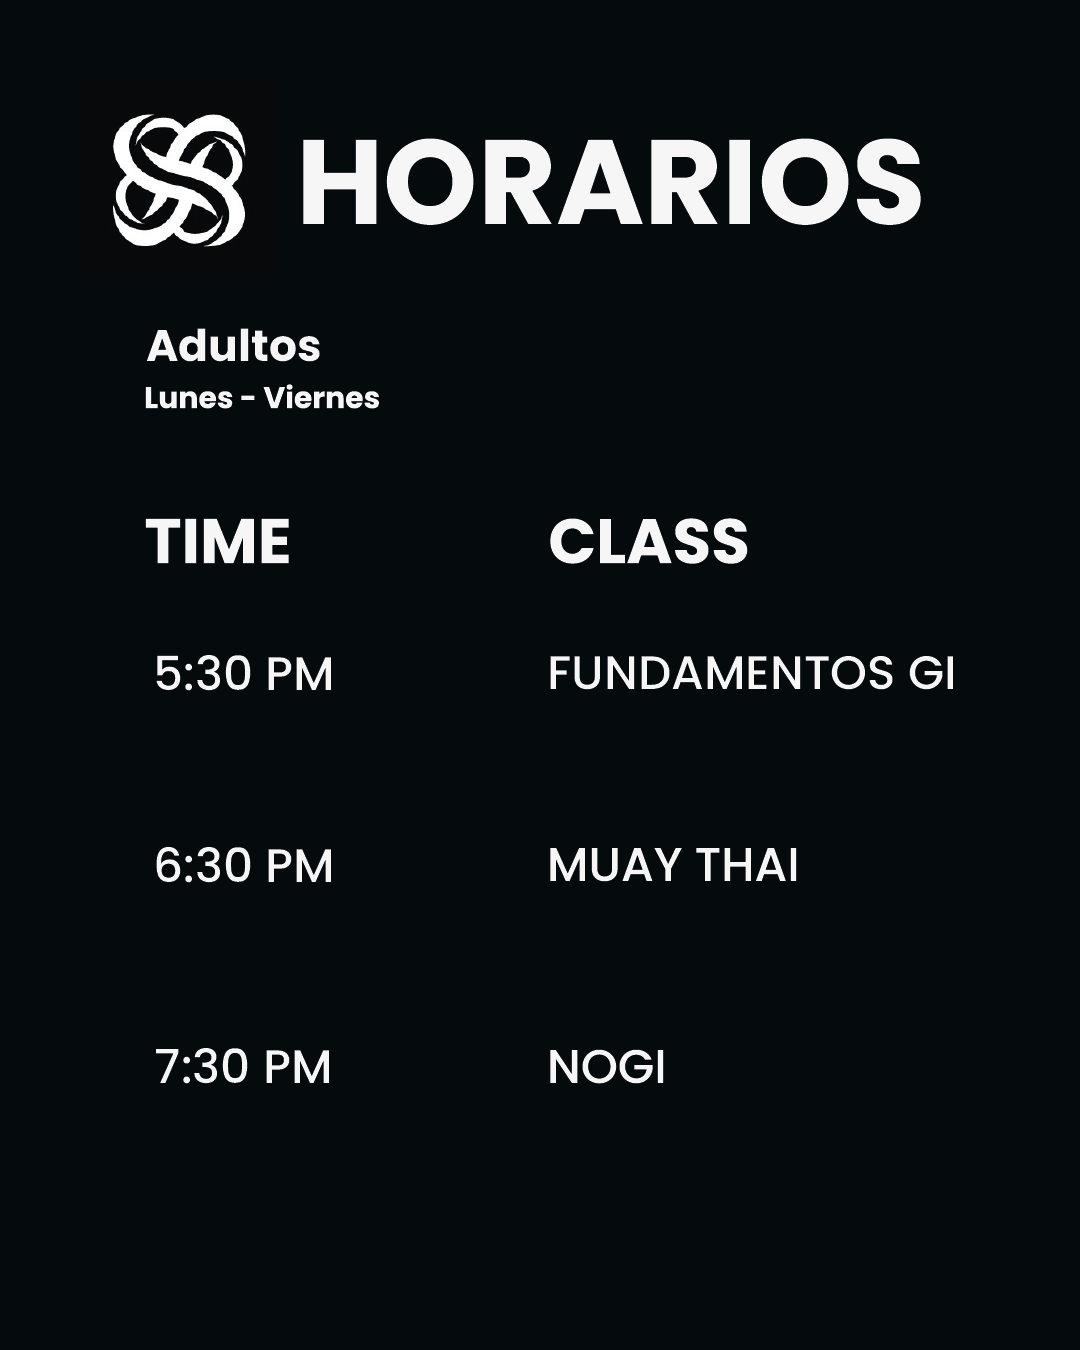
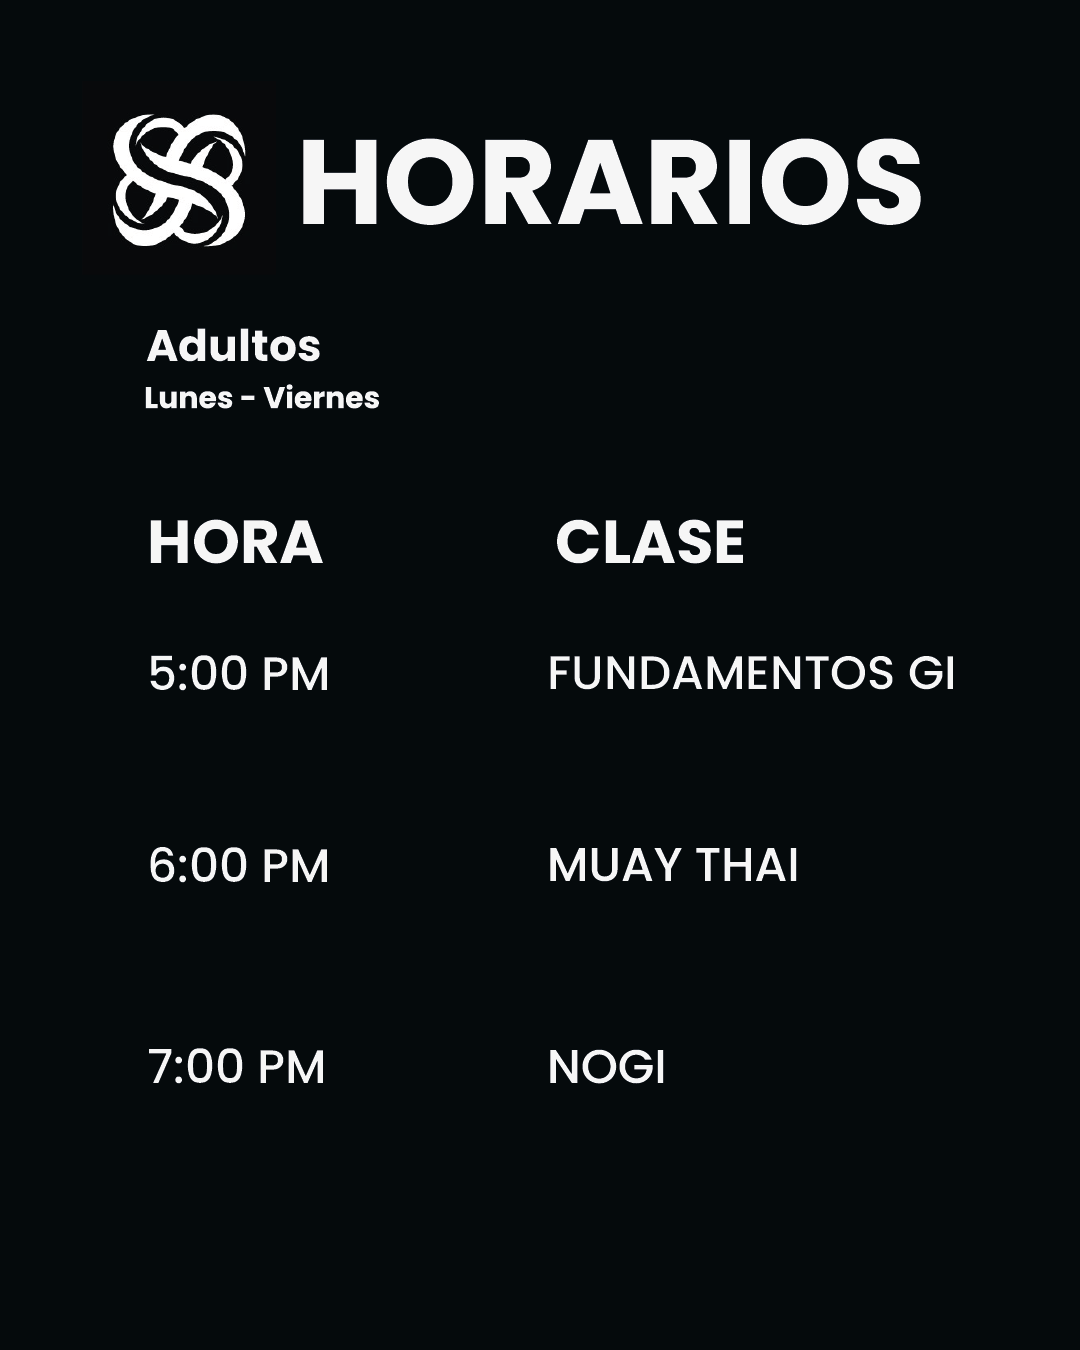
feat: fix horarios final

diff --git a/src/app/horarios/page.jsx b/src/app/horarios/page.jsx
@@ -2,10 +2,11 @@ import Image from 'next/image'
 import { SimpleLayout } from '@/components/SimpleLayout'
 import { Container } from '@/components/Container'
 
-import contactoImage from '@/images/contacto/contacto.png'
+import contactoImage from '@/images/contacto/contacto.jpeg'
 import horariosImage from '@/images/horarios/horariosRutaAdultos.png'
 import horariosImageKids from '@/images/horarios/horariosRutaKids.png'
 import precioImage from '@/images/horarios/preciosRuta.png'
+import precioImage2 from '@/images/horarios/preciosRuta2.png'
 
 
 
@@ -53,6 +54,12 @@ export default function Horarios() {
               
               className="aspect-square rounded-2xl bg-zinc-100 object-center dark:bg-zinc-800"
             />
+            <Image
+              src={precioImage2}
+              alt="precioRuta"
+              
+              className="aspect-square rounded-2xl bg-zinc-100 object-center dark:bg-zinc-800"
+            />
         
       </div>
     </SimpleLayout>
@@ -71,9 +78,10 @@ export default function Horarios() {
                           En La Ruta Jiu-Jitsu tenemos todo… ¡menos a ti! Únete a la
                           comunidad y empieza tu camino en las artes marciales desde hoy
                           mismo.<br></br> <br></br>
-                          <a href="https://wa.me/593984162681" target="_blank">📞 (+593) 984 162 681</a>
+
+                          <a href="https://wa.me/593984162681" target="_blank">📞 WhatsApp click aquí (+593) 984 162 681</a>
  <br></br>
-                          📍 Valle de los Chillos, Quito Ecuador
+                          📍 Av. Ilalo y Rio Zamora, Valle de los Chillos, Quito Ecuador
                         </p>
                       </div>
                     </div>
@@ -90,7 +98,8 @@ export default function Horarios() {
                         />
         
                         <a
-                          href="https://bteamjj.com/brazilian-jiu-jitsu/"
+                          href="https://www.google.com/maps/place/HORNO+DE+LE%C3%91A+(sucursal+El+Tri%C3%A1ngulo)/@-0.2963972,-78.4562364,17z/data=!3m1!4b1!4m6!3m5!1s0x91d5bd7b84cc895b:0x6f64d764d89e9c4!8m2!3d-0.2963972!4d-78.4536615!16s%2Fg%2F11j0h9rr1v?entry=ttu&g_ep=EgoyMDI1MDYwNC4wIKXMDSoASAFQAw%3D%3D"
+                          target='blank'
                           className="absolute inset-0 z-10"
                           aria-label="Brazilian Jiu Jitsu"
                         />

diff --git a/src/app/acerca/page.jsx b/src/app/acerca/page.jsx
@@ -1,7 +1,7 @@
 import Image from 'next/image'
 import Link from 'next/link'
 import clsx from 'clsx'
-import contactoImage from '@/images/contacto/contacto.png'
+import contactoImage from '@/images/contacto/contacto.jpeg'
 
 import { Container } from '@/components/Container'
 import {
@@ -34,19 +34,7 @@ const people = [
     imageUrl: kennyImage,
     xUrl: '#',
   },
-  {
-    name: 'Alejandra',
-    role: 'Instructor de Muay Thai ',
-    imageUrl: kennyImage,
-    xUrl: '#',
-  },
-  ,
-  {
-    name: 'Nicole',
-    role: 'Instructora Flex y Movilidad ',
-    imageUrl: kennyImage,
-    xUrl: '#',
-  },
+  
   // Agrega más miembros si quieres
 ]
 
@@ -200,9 +188,9 @@ export default function About() {
                   En La Ruta Jiu-Jitsu tenemos todo… ¡menos a ti! Únete a la
                   comunidad y empieza tu camino en las artes marciales desde hoy
                   mismo.<br></br> <br></br>
-                  <a href="https://wa.me/593984162681" target="_blank">📞 (+593) 984 162 681</a>
+                  <a href="https://wa.me/593984162681" target="_blank">📞 WhatsApp click aquí (+593) 984 162 681</a>
  <br></br>
-                  📍 Valle de los Chillos, Quito Ecuador
+                  📍 Av. Ilalo y Rio Zamora, Valle de los Chillos, Quito Ecuador
                 </p>
               </div>
             </div>
@@ -219,7 +207,8 @@ export default function About() {
                 />
 
                 <a
-                  href="https://bteamjj.com/brazilian-jiu-jitsu/"
+                  href="https://www.google.com/maps/place/HORNO+DE+LE%C3%91A+(sucursal+El+Tri%C3%A1ngulo)/@-0.2963972,-78.4562364,17z/data=!3m1!4b1!4m6!3m5!1s0x91d5bd7b84cc895b:0x6f64d764d89e9c4!8m2!3d-0.2963972!4d-78.4536615!16s%2Fg%2F11j0h9rr1v?entry=ttu&g_ep=EgoyMDI1MDYwNC4wIKXMDSoASAFQAw%3D%3D"
+                  target='blank'
                   className="absolute inset-0 z-10"
                   aria-label="Brazilian Jiu Jitsu"
                 />

diff --git a/src/app/page.jsx b/src/app/page.jsx
@@ -15,7 +15,7 @@ import image2 from '@/images/photos/image-2.jpg'
 import image3 from '@/images/photos/image-3.jpg'
 import image4 from '@/images/photos/image-4.jpg'
 import image5 from '@/images/photos/image-5.jpg'
-import contactoImage from '@/images/contacto/contacto.png'
+import contactoImage from '@/images/contacto/contacto.jpeg'
 import acercaImage from '@/images/equipo/askArena2.jpg'
 import bjjImage from '@/images/equipo/askArena.jpg'
 
@@ -177,10 +177,10 @@ export default async function Home() {
                   En La Ruta Jiu-Jitsu tenemos todo… ¡menos a ti! Únete a la
                   comunidad y empieza tu camino en las artes marciales desde hoy
                   mismo.<br></br> <br></br>
-                  <a href="https://wa.me/593984162681" target="_blank">📞 (+593) 984 162 681</a>
+                  <a href="https://wa.me/593984162681" target="_blank">📞 WhatsApp click aquí (+593) 984 162 681</a>
 
                  <br></br>
-                  📍 Valle de los Chillos, Quito Ecuador
+                  📍 Av. Ilalo y Rio Zamora, Valle de los Chillos, Quito Ecuador
                 </p>
               </div>
             </div>
@@ -197,7 +197,8 @@ export default async function Home() {
                 />
 
                 <a
-                  href="https://bteamjj.com/brazilian-jiu-jitsu/"
+                  href="https://www.google.com/maps/place/HORNO+DE+LE%C3%91A+(sucursal+El+Tri%C3%A1ngulo)/@-0.2963972,-78.4562364,17z/data=!3m1!4b1!4m6!3m5!1s0x91d5bd7b84cc895b:0x6f64d764d89e9c4!8m2!3d-0.2963972!4d-78.4536615!16s%2Fg%2F11j0h9rr1v?entry=ttu&g_ep=EgoyMDI1MDYwNC4wIKXMDSoASAFQAw%3D%3D"
+                  target='blank'
                   className="absolute inset-0 z-10"
                   aria-label="Brazilian Jiu Jitsu"
                 />

diff --git a/src/app/contacto/page.jsx b/src/app/contacto/page.jsx
@@ -1,7 +1,7 @@
 import Image from 'next/image'
 import Link from 'next/link'
 import { Container } from '@/components/Container'
-import contactoImage from '@/images/contacto/contacto.png'
+import contactoImage from '@/images/contacto/contacto.jpeg'
 
 export const metadata = {
   title: 'Contacto | La Ruta BJJ - Jiu-Jitsu en el Valle de los Chillos',
@@ -27,9 +27,9 @@ export default function Uses() {
                       En La Ruta Jiu-Jitsu tenemos todo… ¡menos a ti! Únete a la
                       comunidad y empieza tu camino en las artes marciales desde hoy
                       mismo.<br></br> <br></br>
-                      <a href="https://wa.me/593984162681" target="_blank">📞 (+593) 984 162 681</a>
+                      <a href="https://wa.me/593984162681" target="_blank">📞 WhatsApp click aquí (+593) 984 162 681</a>
  <br></br>
-                      📍 Valle de los Chillos, Quito Ecuador
+                      📍 Av. Ilalo y Rio Zamora, Valle de los Chillos, Quito Ecuador
                     </p>
                   </div>
                 </div>
@@ -46,7 +46,8 @@ export default function Uses() {
                     />
     
                     <a
-                      href="https://bteamjj.com/brazilian-jiu-jitsu/"
+                      href="https://www.google.com/maps/place/HORNO+DE+LE%C3%91A+(sucursal+El+Tri%C3%A1ngulo)/@-0.2963972,-78.4562364,17z/data=!3m1!4b1!4m6!3m5!1s0x91d5bd7b84cc895b:0x6f64d764d89e9c4!8m2!3d-0.2963972!4d-78.4536615!16s%2Fg%2F11j0h9rr1v?entry=ttu&g_ep=EgoyMDI1MDYwNC4wIKXMDSoASAFQAw%3D%3D"
+                      target='blank'
                       className="absolute inset-0 z-10"
                       aria-label="Brazilian Jiu Jitsu"
                     />
